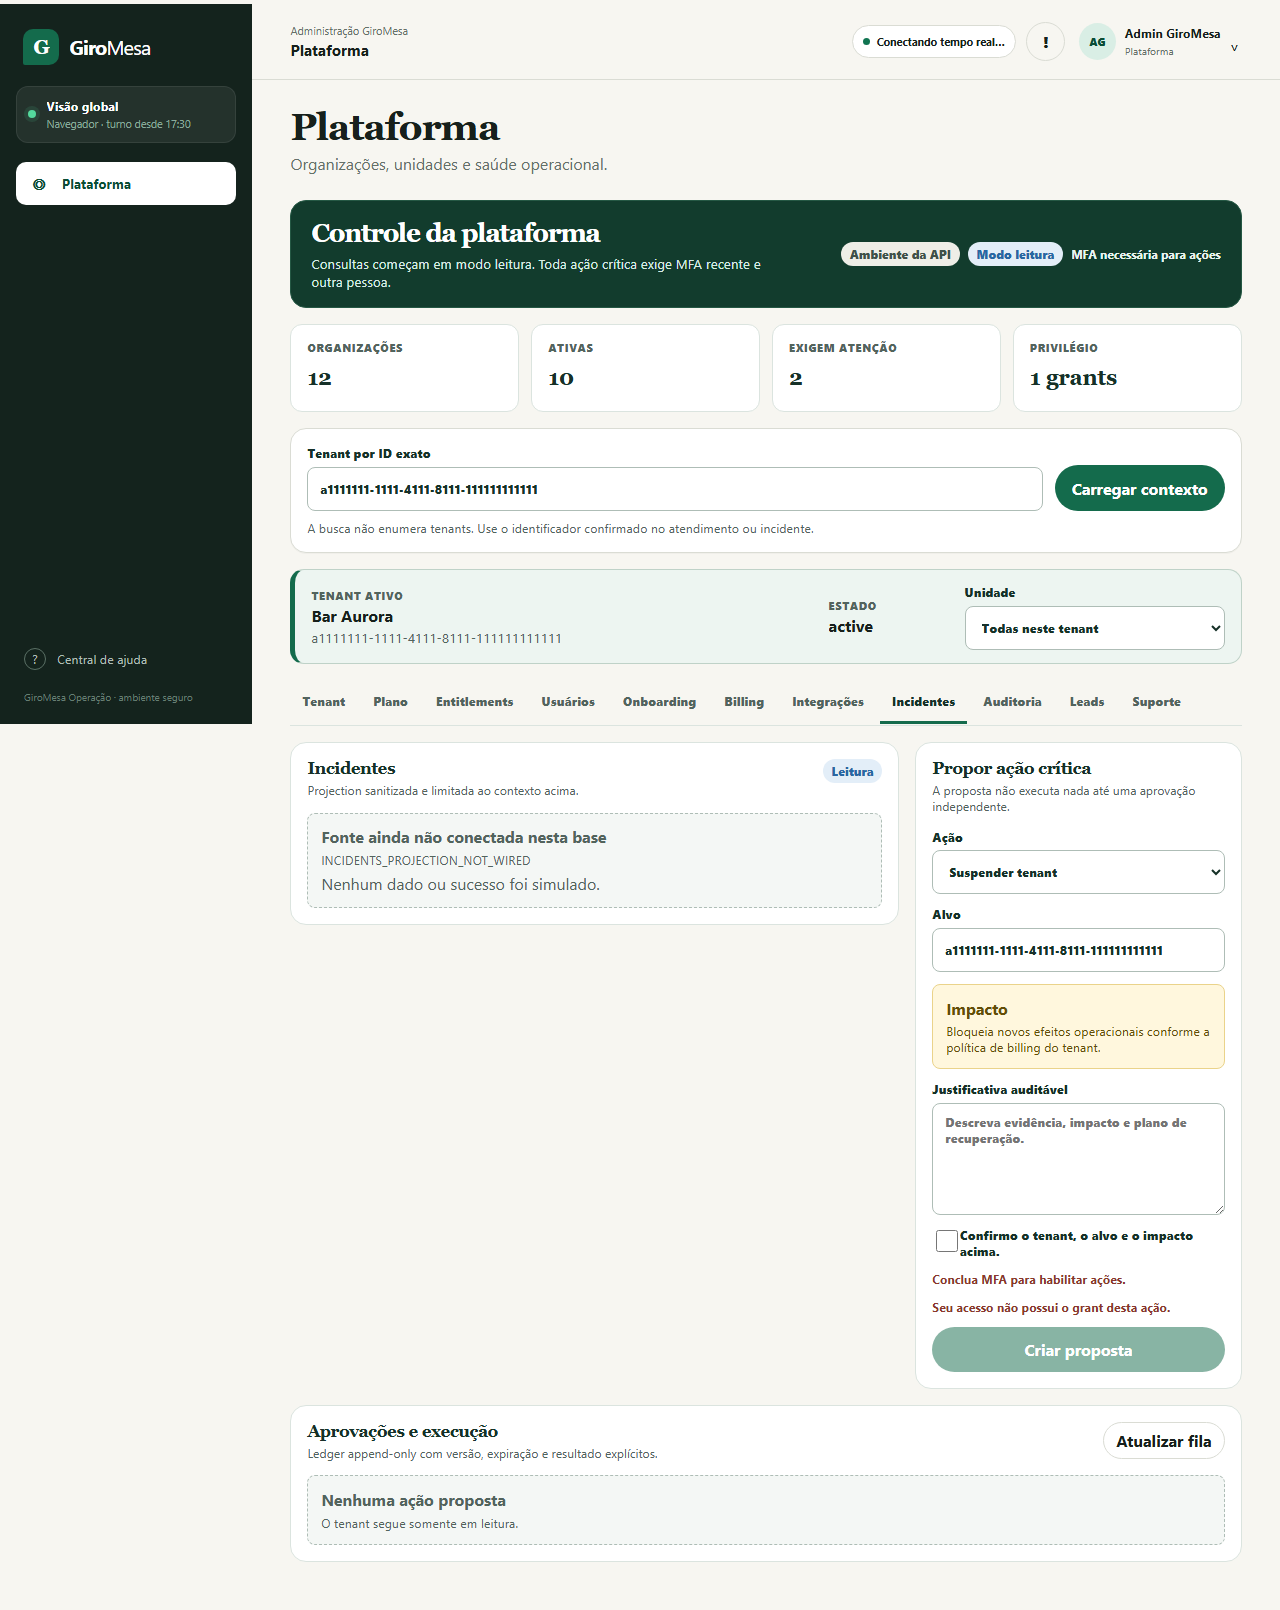
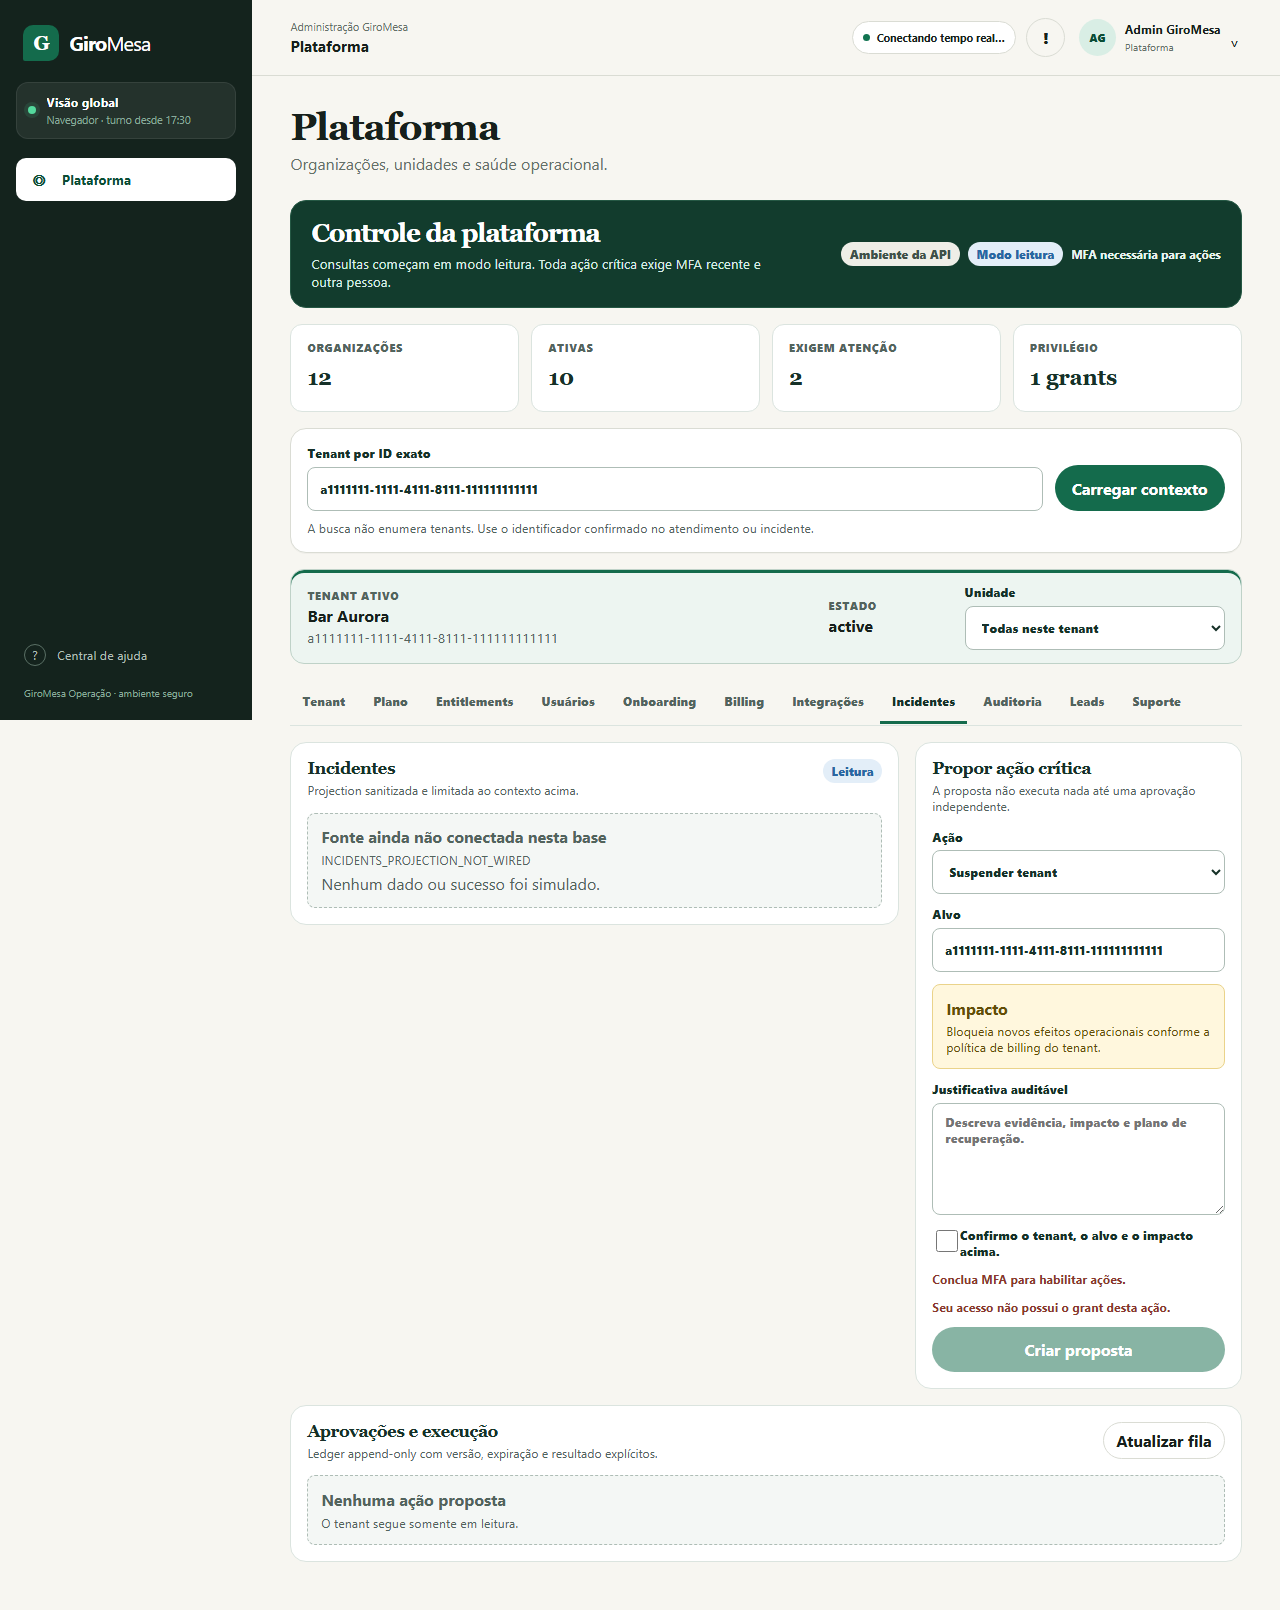
fix(ops): complete platform tab accessibility

diff --git a/apps/ops/src/platform.tsx b/apps/ops/src/platform.tsx
@@ -1,5 +1,12 @@
 import { Badge, Button, Card } from "@giromesa/ui";
-import { type FormEvent, useCallback, useEffect, useMemo, useState } from "react";
+import {
+  type FormEvent,
+  type KeyboardEvent,
+  useCallback,
+  useEffect,
+  useMemo,
+  useState,
+} from "react";
 import { ApiClientError, api } from "./api";
 
 type Row = Record<string, unknown>;
@@ -622,6 +629,21 @@ export function RealPlatformPage({
     if (activeContext) void loadProjection(activeContext.organization.id, resource, unitId);
   }
 
+  function navigateResources(event: KeyboardEvent<HTMLButtonElement>, resource: PlatformResource) {
+    const currentIndex = resources.indexOf(resource);
+    let nextIndex: number | undefined;
+    if (event.key === "ArrowRight") nextIndex = (currentIndex + 1) % resources.length;
+    if (event.key === "ArrowLeft") nextIndex = (currentIndex - 1 + resources.length) % resources.length;
+    if (event.key === "Home") nextIndex = 0;
+    if (event.key === "End") nextIndex = resources.length - 1;
+    if (nextIndex === undefined) return;
+    event.preventDefault();
+    const nextResource = resources[nextIndex];
+    if (!nextResource) return;
+    selectResource(nextResource);
+    document.getElementById(`platform-tab-${nextResource}`)?.focus();
+  }
+
   return (
     <div className="platform-workspace">
       <header className="platform-commandbar">
@@ -720,10 +742,14 @@ export function RealPlatformPage({
           <div className="platform-tabs" role="tablist" aria-label="Domínios do backoffice">
             {resources.map((resource) => (
               <button
+                aria-controls={`platform-panel-${resource}`}
                 aria-selected={resource === selectedResource}
+                id={`platform-tab-${resource}`}
                 key={resource}
                 onClick={() => selectResource(resource)}
+                onKeyDown={(event) => navigateResources(event, resource)}
                 role="tab"
+                tabIndex={resource === selectedResource ? 0 : -1}
                 type="button"
               >
                 {resourceLabels[resource]}
@@ -732,7 +758,12 @@ export function RealPlatformPage({
           </div>
 
           <div className="platform-content-grid">
-            <section aria-labelledby="platform-projection-title" className="platform-projection">
+            <section
+              aria-labelledby={`platform-tab-${selectedResource}`}
+              className="platform-projection"
+              id={`platform-panel-${selectedResource}`}
+              role="tabpanel"
+            >
               <div className="platform-section-heading">
                 <div>
                   <h2 id="platform-projection-title">{resourceLabels[selectedResource]}</h2>

diff --git a/apps/ops/src/styles.css b/apps/ops/src/styles.css
@@ -1726,7 +1726,7 @@ small {
   margin-top: auto;
 }
 .sidebar__footer small {
-  color: #667e73;
+  color: #89a99b;
   font-size: 0.62rem;
   padding-left: 0.5rem;
 }
